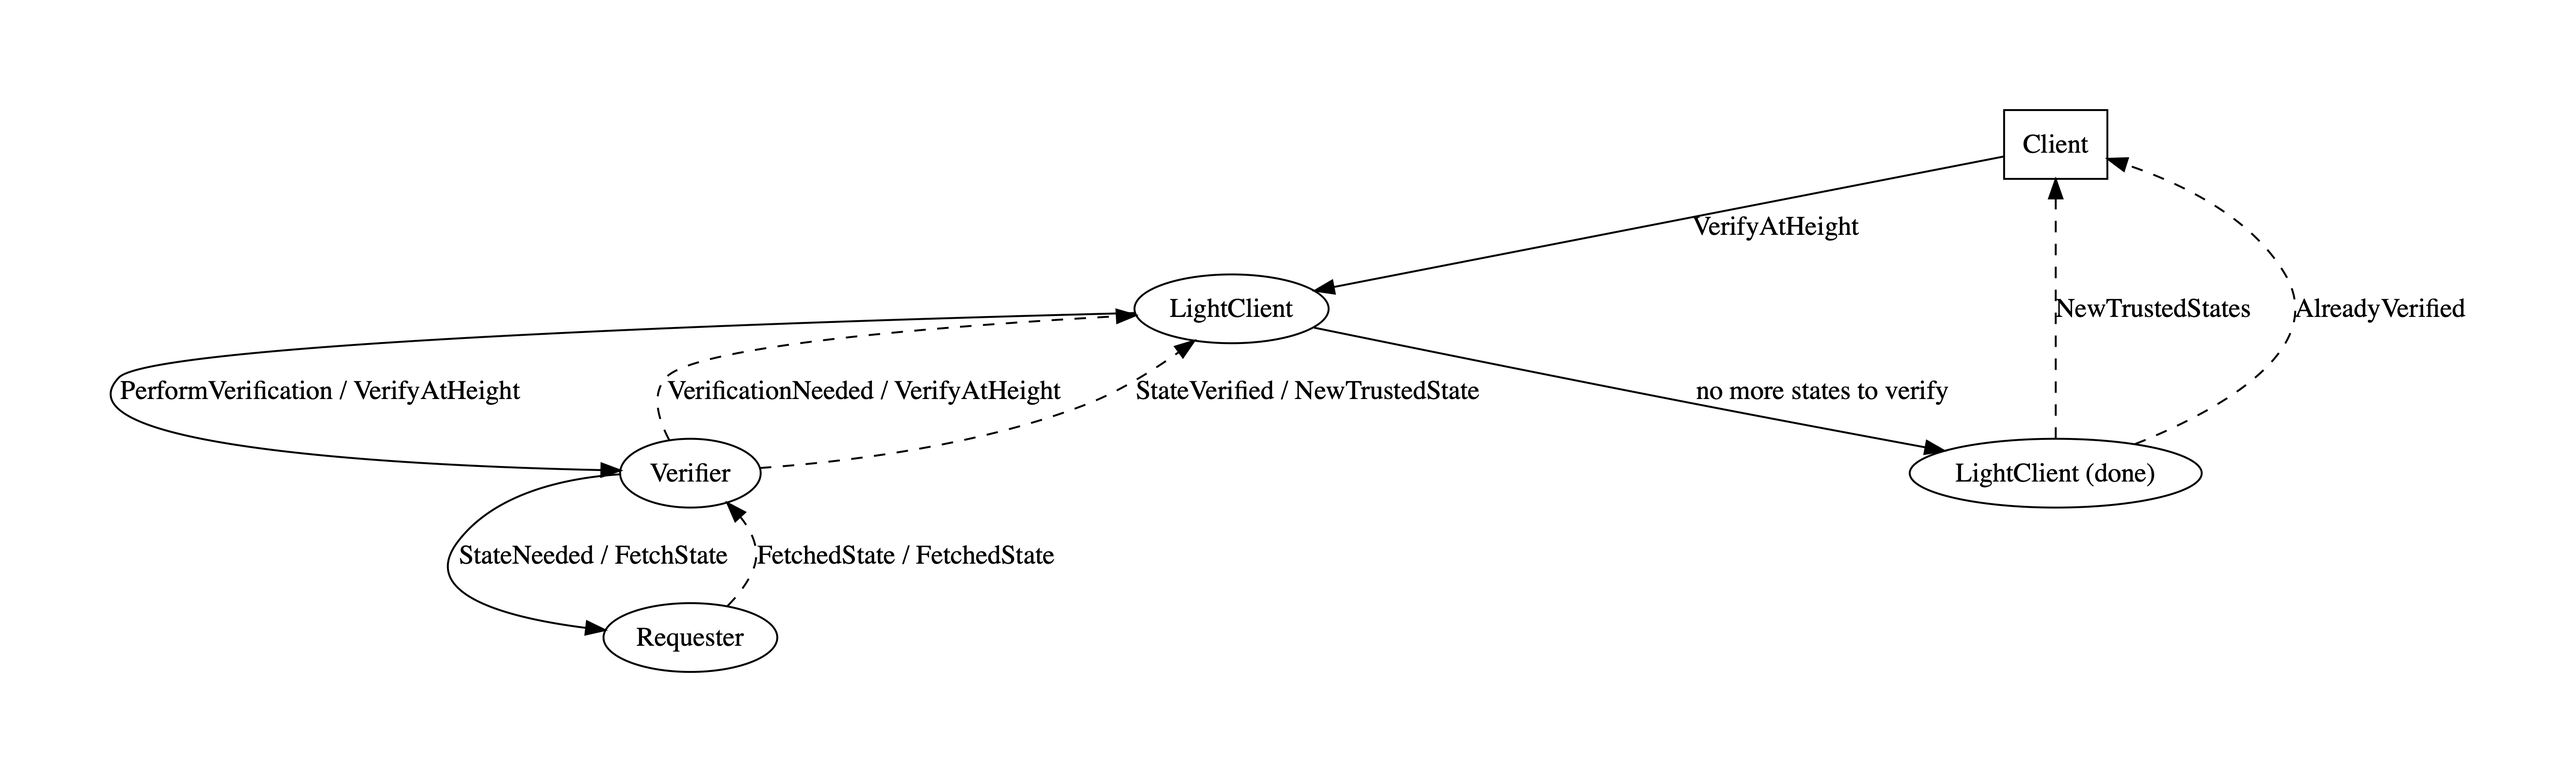
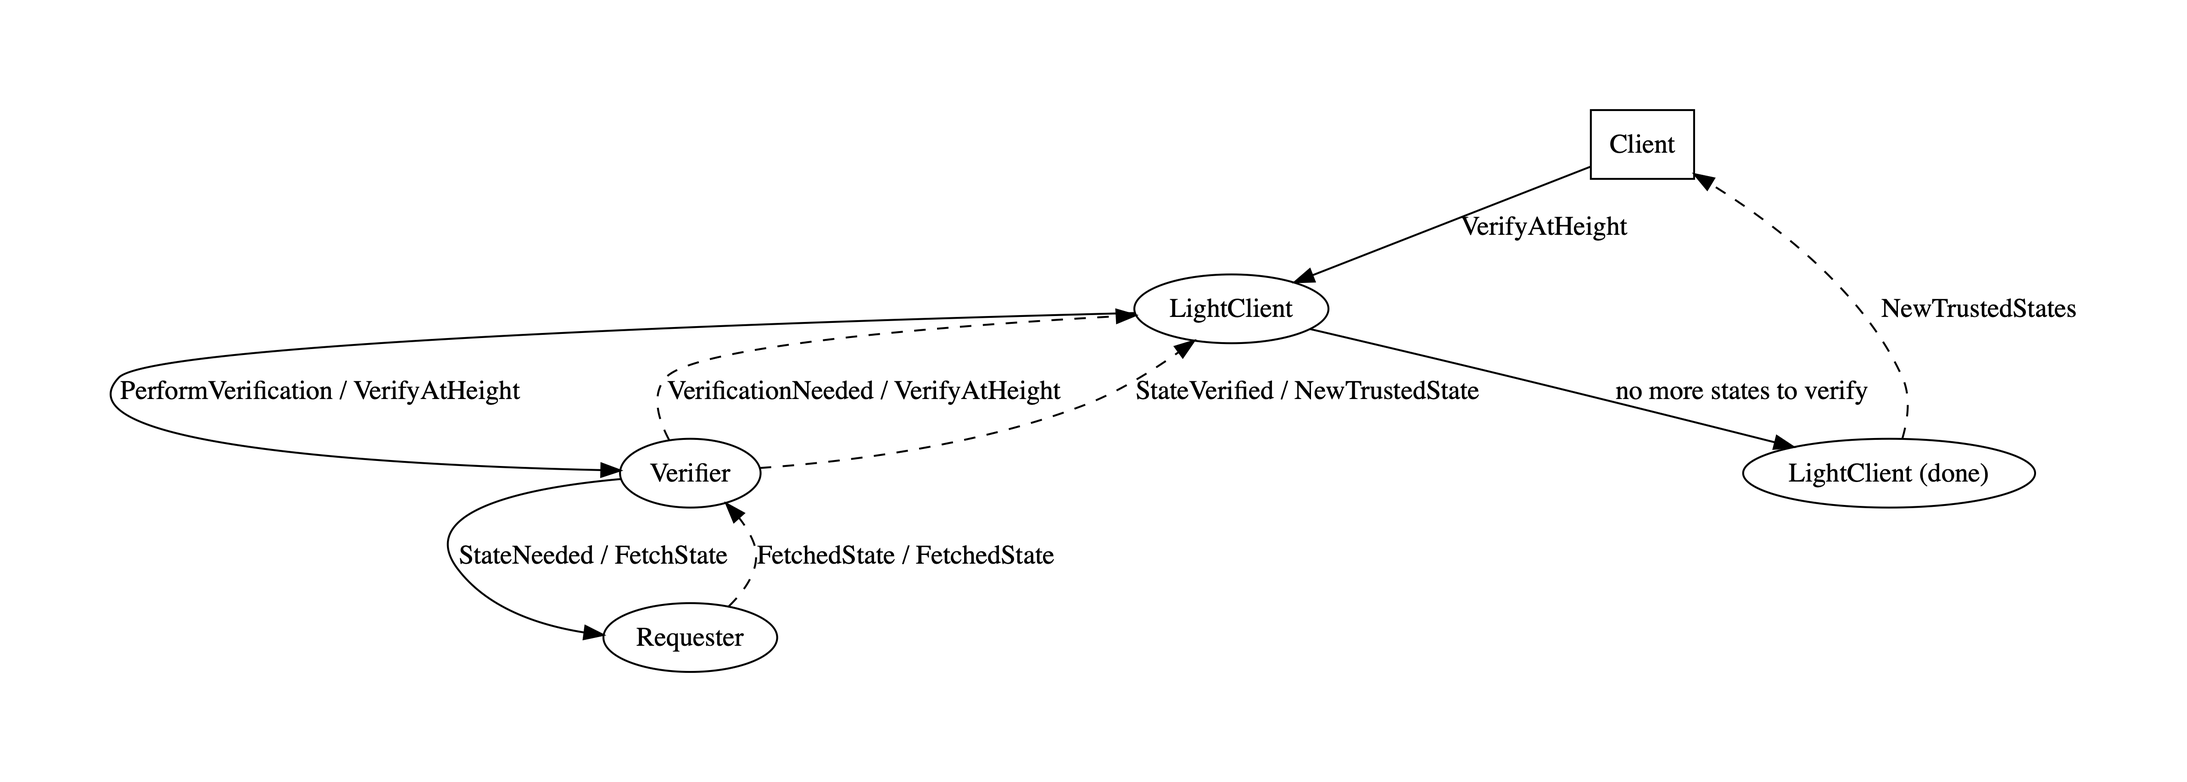
Cleanup

diff --git a/light-spike/src/light_client.rs b/light-spike/src/light_client.rs
@@ -8,7 +8,6 @@ use crate::{prelude::*, trusted_store::TSReadWriter};
 #[derive(Clone, Debug)]
 pub enum LightClientError {
     NoMatchingPendingState(Height),
-    NextHeightMismatch { expected: Height, got: Height },
 }
 
 pub enum LightClientEvent {
@@ -34,7 +33,6 @@ pub enum LightClientEvent {
         trusted_height: Height,
         trusted_states: Vec<TrustedState>,
     },
-    AlreadyVerified(Height),
 }
 
 pub struct PendingState {
@@ -62,25 +60,20 @@ impl LightClient {
         }
     }
 
-    fn reset(&mut self) {
+    fn reset(&mut self) -> Vec<TrustedState> {
         self.pending_heights.clear();
         self.pending_states.clear();
+
+        std::mem::replace(&mut self.verified_states, Vec::new())
     }
 
-    fn add_to_trusted_store(
-        &mut self,
-        height: Height,
-        trusted_state: TrustedState,
-    ) -> Result<PendingState, LightClientError> {
-        let pending_state = self
-            .pending_states
-            .remove(&height)
-            .ok_or_else(|| LightClientError::NoMatchingPendingState(height))?;
+    fn save_trusted_state(&mut self, trusted_state: TrustedState) -> Result<(), LightClientError> {
+        let height = trusted_state.header.height;
 
         self.trusted_store.set(height, trusted_state.clone());
         self.verified_states.push(trusted_state);
 
-        Ok(pending_state)
+        Ok(())
     }
 }
 
@@ -116,44 +109,30 @@ impl Handler<LightClientEvent> for LightClient {
                 })
             }
             LightClientEvent::NewTrustedState(new_trusted_state) => {
-                let new_height = new_trusted_state.header.height;
-                let latest_height_to_verify = self.pending_heights.pop_front();
+                self.save_trusted_state(new_trusted_state.clone())?;
 
-                match latest_height_to_verify {
-                    // The height of the new trusted state matches the next height we needed to verify.
-                    Some(latest_height_to_verify) if latest_height_to_verify == new_height => {
-                        let pending_state =
-                            self.add_to_trusted_store(new_height, new_trusted_state.clone())?;
+                if let Some(pending_height) = self.pending_heights.pop_front() {
+                    // We have more states to verify
+                    let pending_state = self
+                        .pending_states
+                        .remove(&pending_height)
+                        .ok_or_else(|| LightClientError::NoMatchingPendingState(pending_height))?;
 
-                        if let Some(next_height_to_verify) = self.pending_heights.front() {
-                            // We have more states to verify
-                            Ok(LightClientEvent::PerformVerification {
-                                trusted_state: new_trusted_state,
-                                untrusted_height: *next_height_to_verify,
-                                trust_threshold: pending_state.trust_threshold,
-                                trusting_period: pending_state.trusting_period,
-                                now: pending_state.now,
-                            })
-                        } else {
-                            // No more heights to verify, we are done, return all verified states
-                            let verified_states =
-                                std::mem::replace(&mut self.verified_states, Vec::new());
+                    Ok(LightClientEvent::PerformVerification {
+                        trusted_state: new_trusted_state,
+                        untrusted_height: pending_height,
+                        trust_threshold: pending_state.trust_threshold,
+                        trusting_period: pending_state.trusting_period,
+                        now: pending_state.now,
+                    })
+                } else {
+                    // No more pending heights to verify, we are done, return all verified states
+                    let verified_states = self.reset();
 
-                            self.reset();
-
-                            Ok(LightClientEvent::NewTrustedStates {
-                                trusted_height: latest_height_to_verify,
-                                trusted_states: verified_states.into(),
-                            })
-                        }
-                    }
-                    // The height of the new trusted state does not match the latest height we needed to verify.
-                    Some(latest_height_to_verify) => Err(LightClientError::NextHeightMismatch {
-                        expected: latest_height_to_verify,
-                        got: new_height,
-                    }),
-                    // There were no more heights to verify, raise an error.
-                    None => todo!(),
+                    Ok(LightClientEvent::NewTrustedStates {
+                        trusted_height: new_trusted_state.header.height,
+                        trusted_states: verified_states.into(),
+                    })
                 }
             }
             _ => unreachable!(),
